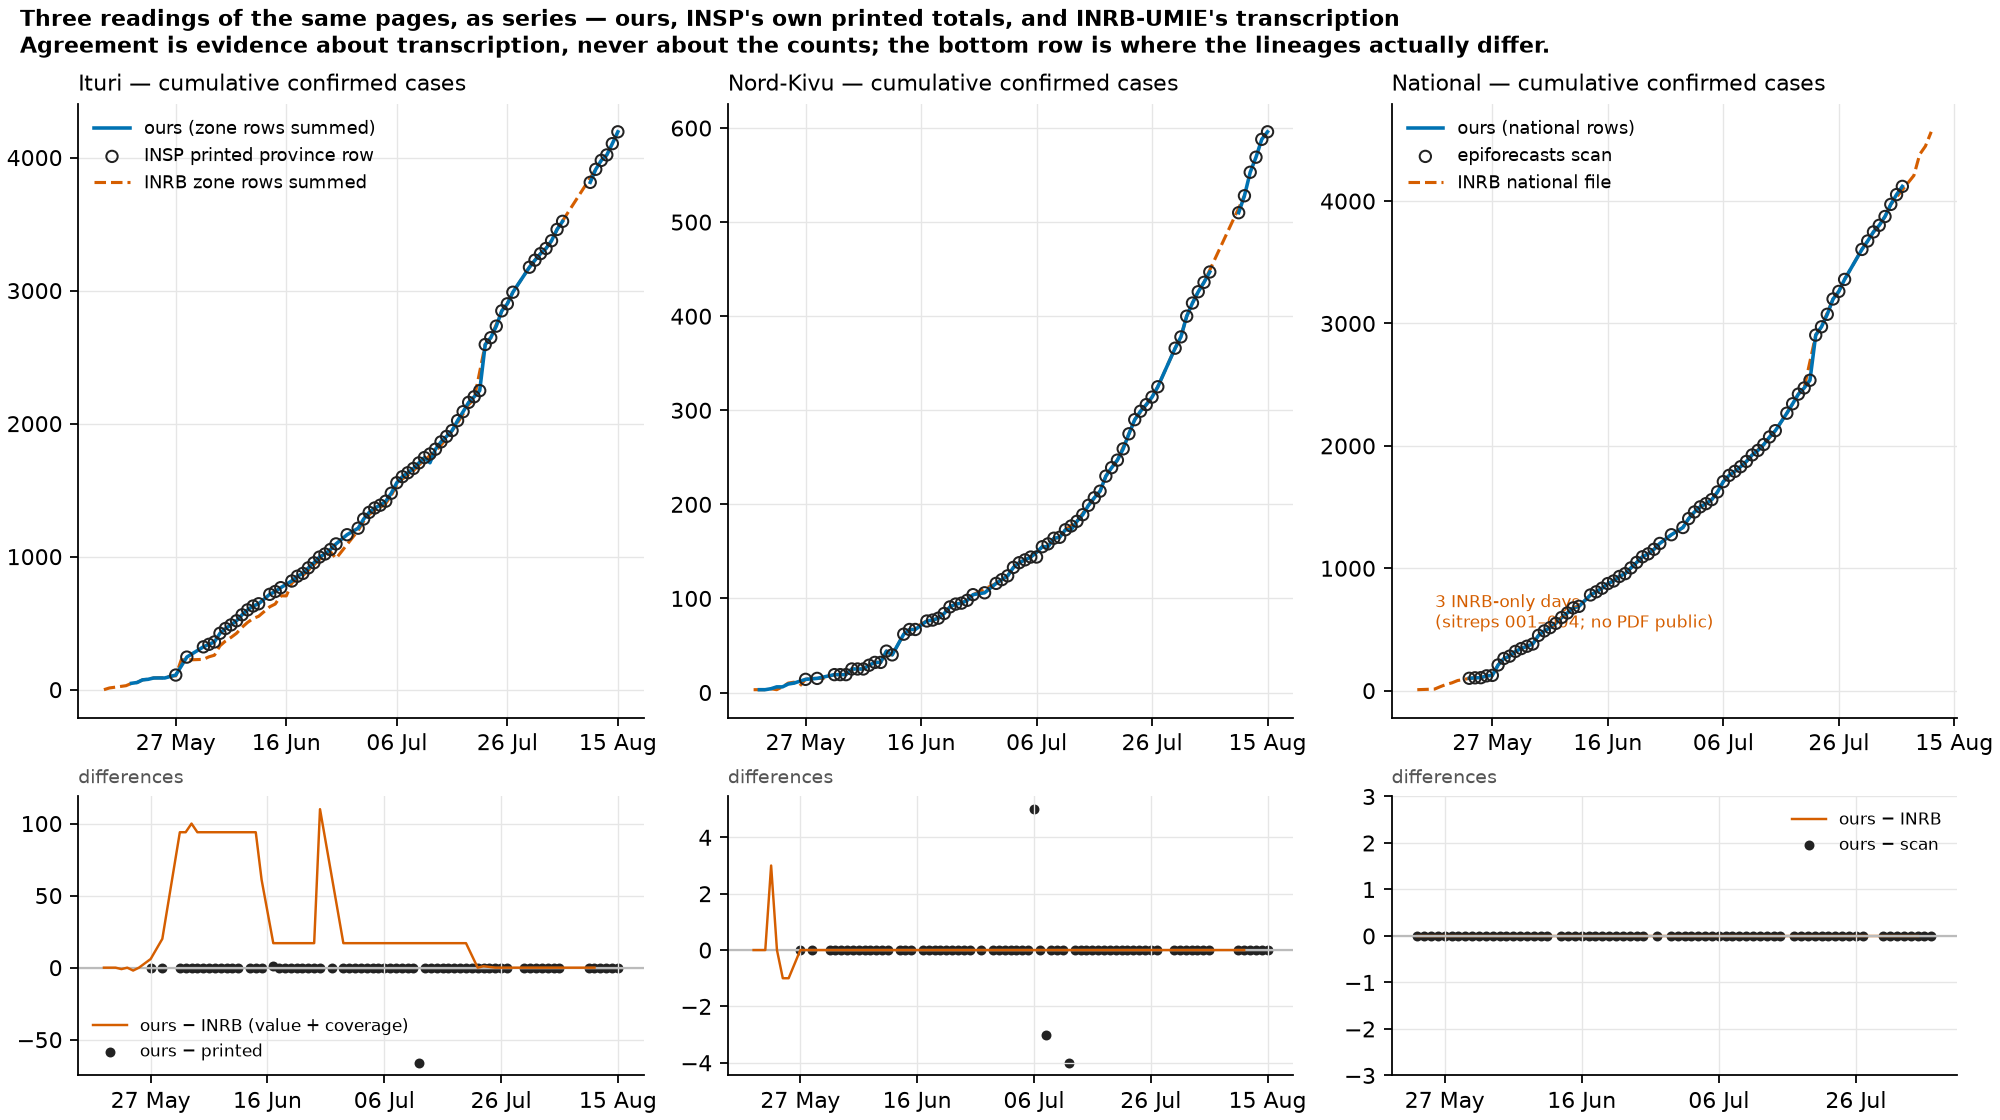
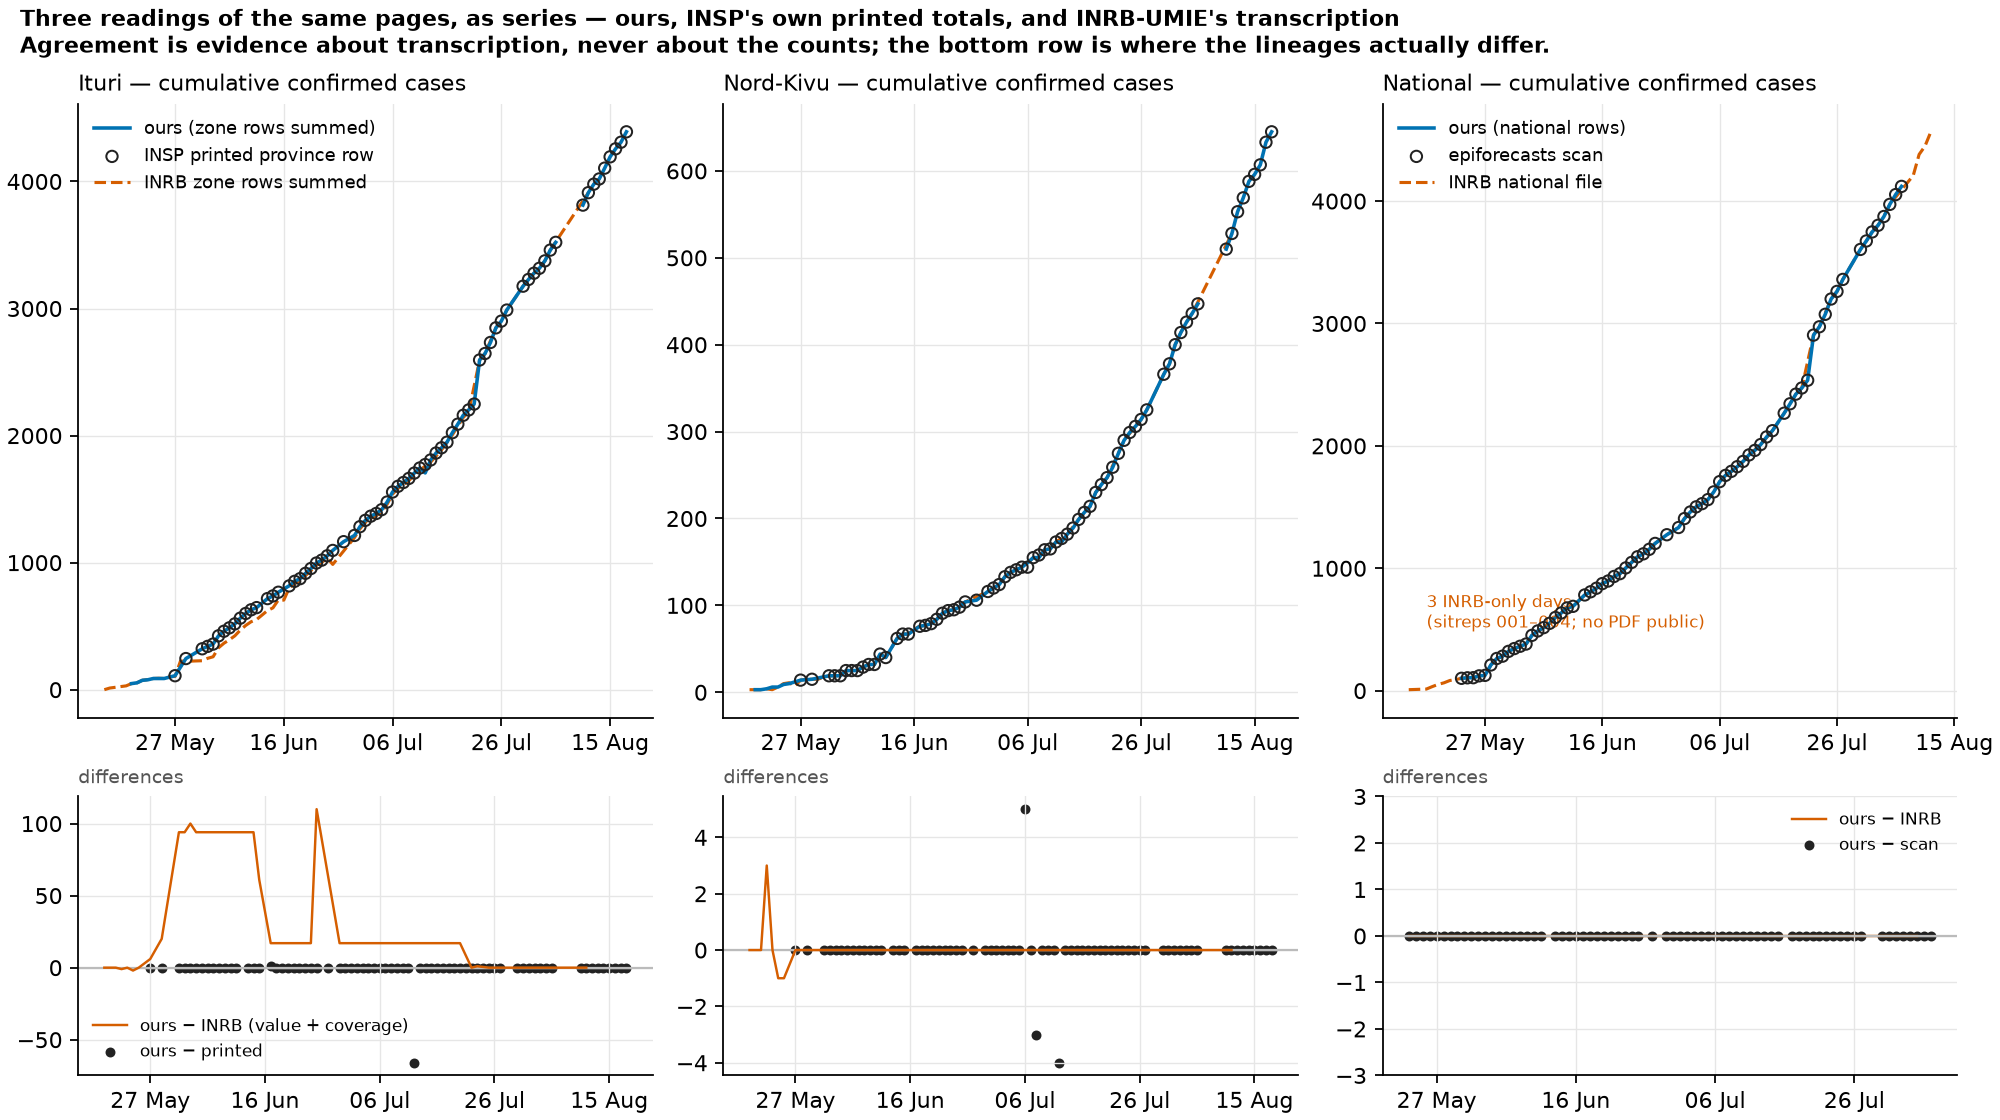
Sitreps 094-096, and two label-column defects they exposed
INSP published three reports on 2026-08-20 as bare-numbered uploads, which
the fetch guard refused to classify -- correctly; it blocked the modelling
repo's vendor step, which is what a fail-closed provenance guard is for.
Each front page states its own number and data date; recorded in the
override register from the page.

Sitrep 095 then exposed two defects in how a two-label-column layout is
read, both caught by the page's own arithmetic:

- The chain remap forced the continuation page's single label column onto
  the head page, dropping the column the province row sat in: the national
  identity failed by exactly Ituri's 4,309 cases. Value columns must agree
  across a chain (that is what the remap is for); label columns are per-page
  typography, so the page's own classified labels now win where it has them,
  with the reference's kept as the fallback for a page too thin to classify
  (sitrep 058).
- parent() returned the leftmost label column whether or not the name came
  from it, so rows outdented into that column were emitted as their own
  parent. The carry read Adja and Aru as merged province labels and left all
  55 of that report's zone rows unattributed. A row is not its own parent.

278 province-reports reconcile, 10 verified exceptions, 0 disagree; all
three new reports close exactly. 98 tests, byte-deterministic.

Claude-Session: https://claude.ai/code/session_015tkmBJ2UNKTmshByKopqW2

diff --git a/scripts/lib/tablespec.py b/scripts/lib/tablespec.py
@@ -641,21 +641,30 @@ def _remap_by_x(table, spec: TableSpec, ref: Mapped) -> Mapped | None:
         used.add(got[1])
     if not roles:
         return None
-    # LABELS COME FROM THE REFERENCE PAGE TOO. Deriving them from this page's
-    # own text ("everything textual left of the first value column") swept in
-    # prose fragments as a second label column on sitrep 058's last page --
-    # every row's own name then doubled as its printed parent, the carry took
-    # those names for province anchors, and forty zones landed in Haut-Uélé.
-    # One table, one label set: each reference label column maps to this
-    # page's nearest column by x.
-    labels = []
-    for rj in ref.labels:
-        cx = center(ref.table, rj)
-        got = min(((abs(center(table, j) - cx), j) for j in range(table.ncols)
-                   if j not in used), default=None)
-        if got is not None and got[0] <= _ALIGN_TOL:
-            labels.append(got[1])
-    return Mapped(table=table, roles=roles, labels=tuple(sorted(labels)))
+    # VALUE columns must agree across the chain -- that is what this remap is
+    # for. LABEL columns must not be forced to agree, because they are
+    # per-page typography: sitrep 095's first page outdents the province name
+    # into its own column and indents the zones into a second, while its
+    # continuation carries zones alone in one column. Mapping the
+    # continuation's single label column onto the first page dropped the
+    # column Ituri sat in, and the report's national identity failed by
+    # exactly Ituri's 4,309 cases.
+    #
+    # So the page's own classified labels win where it has them. The
+    # reference's are the fallback for a page whose data is too thin to
+    # classify at all -- deriving labels from raw text there swept prose
+    # fragments in as a second label column on sitrep 058 and sent forty
+    # zones into Haut-Uélé.
+    labels, _values = classify(table, start=table.header_rows())
+    if not labels:
+        for rj in ref.labels:
+            cx = center(ref.table, rj)
+            got = min(((abs(center(table, j) - cx), j)
+                       for j in range(table.ncols) if j not in used),
+                      default=None)
+            if got is not None and got[0] <= _ALIGN_TOL:
+                labels.append(got[1])
+    return Mapped(table=table, roles=roles, labels=tuple(sorted(set(labels))))
 
 
 def select(tables: Iterable, spec: TableSpec) -> Resolved | None:

diff --git a/scripts/extract_zone_table.py b/scripts/extract_zone_table.py
@@ -212,7 +212,16 @@ def row_name(page, cells) -> tuple[str, str]:
         joined = strip_ordinal(" ".join(parts))
         if level_of(joined) != "zone":
             return joined, ""
-    return strip_ordinal(page.label(cells)), page.parent(cells)
+    name = strip_ordinal(page.label(cells))
+    parent = page.parent(cells)
+    # A ROW IS NOT ITS OWN PARENT. `parent()` reads the leftmost label column
+    # whether or not the name came from that same column, and where a table
+    # outdents some rows into it -- sitrep 095 prints its province row and two
+    # of its zones at the left margin, the rest indented -- those rows were
+    # emitted with `province_printed` equal to their own name. The carry then
+    # took `Adja` and `Aru` for merged province labels, found no such
+    # province, and left all 55 of that report's zone rows unattributed.
+    return name, ("" if parent == name else parent)
 
 
 def extract(pdf: Path, specs=SPECS) -> tuple[list[dict], str]:

diff --git a/CHANGELOG.md b/CHANGELOG.md
@@ -16,6 +16,40 @@ carries the rest.
 
 ---
 
+## `data/2026-08-18` — 2026-08-21 — data + fix
+
+**Three new reports: sitreps 094, 095, 096** (data dates 16–18 August). INSP
+published all three on 20 August as bare-numbered uploads (`94.pdf`,
+`95.pdf`, `96.pdf`), which the fetch guard refused to classify — correctly,
+and it blocked the modelling repo's vendor step until a human read them. Each
+front page states its own identity ("SitRep N°094/MVEBDB/16/08/2026 · Date de
+rapportage : 16 août 2026"); recorded in
+`registers/sitrep_number_overrides.tsv` from the page, not the filename.
+
+**Two extraction fixes that sitrep 095 exposed**, both in the handling of a
+table whose first page outdents the province name into its own label column
+while its continuation carries zones in one:
+
+- The chain remap forced the continuation's single label column onto the
+  first page, dropping the column the province row sat in. The report's
+  national identity failed by exactly Ituri's 4,309 cases. Value columns must
+  agree across a chain; label columns are per-page typography, and the page's
+  own classified labels now win where it has them.
+- `parent()` returned the leftmost label column whether or not the name came
+  from that same column, so rows outdented into it were emitted as their own
+  parent. The carry then read `Adja` and `Aru` as merged province labels,
+  found no such province, and left all 55 of that report's zone rows
+  unattributed. A row is not its own parent.
+
+Both defects were caught by the page's own arithmetic, not by inspection.
+
+Identities after the fixes: **278 province-reports reconcile, 10 carry a
+verified exception, 0 disagree**; all three new reports close exactly. Stream
+totals equal the source's cumulative movement as always; `cases_ituri` now
+agrees with the printed province row on 69 of 71 dates. `deaths_ituri`'s
+worst grid gap returns to the registered −66 (sitrep 059) after briefly
+showing a spurious −37.
+
 ## `data/2026-08-15-r8` — 2026-08-19 — addition
 
 Three national **stock** observations, read from the front-page banner and
